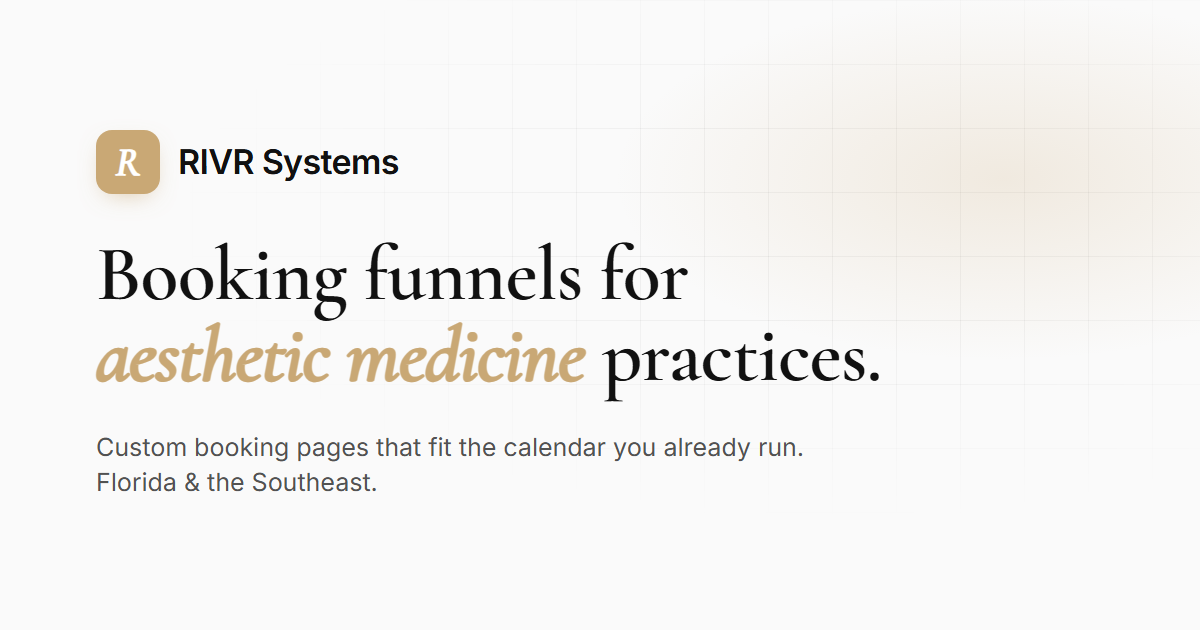
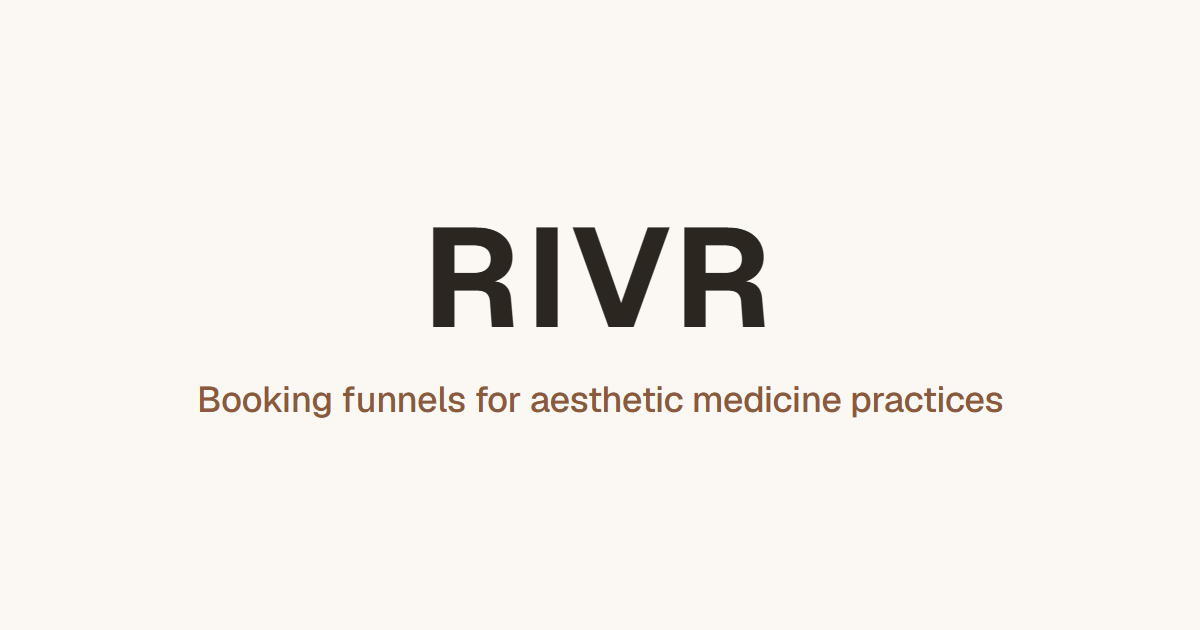
feat: Open Graph + Twitter Card meta tags + OG image asset
OG + Twitter Card meta tag sets already existed on all 4 HTML files
(index, about, book, the-build). This commit refreshes the
descriptions that drifted out of sync with Polish 3 messaging, and
regenerates imagery/og-image.png on the new off-white background with
Geist 700 wordmark (the previous version was rendered against the old
warm-cream bg + Cormorant wordmark from before Polish 3 / Task 5).

Description refreshes:
  index.html  (home og:description, twitter:description, meta
                description) — was the generic "Online booking systems
                that fit the calendar you already run...", now
                aligned with the new hero claim:
                "Most med spa booking pages lose 1 in 4 patients to
                 friction. We build a custom booking funnel that
                 replaces it, integrated with your existing calendar."
                (152 chars)

  the-build.html (og + twitter + meta description) — was a demo-
                showcase blurb, replaced with the methodology line
                Polish 4 / Task 5 added to the page:
                "How a build works: discovery, audit, two weeks of
                 build, integration with your calendar, handoff to
                 your domain. No platform migration." (138 chars)

  about.html  — already on-voice + concrete, unchanged.
  book.html   — already on-voice + concrete, unchanged.

OG image regenerated (imagery/og-image.png, 1200×630):
[…]

diff --git a/index.html b/index.html
@@ -4,7 +4,7 @@
   <meta charset="utf-8" />
   <meta name="viewport" content="width=device-width,initial-scale=1" />
   <title>RIVR — Booking systems for medical spas</title>
-  <meta name="description" content="Online booking systems that fit the calendar you already run. For medical spas in Jacksonville Beach and beyond." />
+  <meta name="description" content="Most med spa booking pages lose 1 in 4 patients to friction. We build a custom booking funnel that replaces it, integrated with your existing calendar." />
 
   <!-- TODO(thor): confirm canonical production domain is https://rivrsystems.com (vs www / vercel). See BLOCKED_ON_THOR.md. -->
   <link rel="canonical" href="https://rivrsystems.com/" />
@@ -13,14 +13,14 @@
   <meta property="og:type" content="website" />
   <meta property="og:site_name" content="RIVR Systems" />
   <meta property="og:title" content="RIVR — Booking systems for medical spas" />
-  <meta property="og:description" content="Online booking systems that fit the calendar you already run. For medical spas in Jacksonville Beach and beyond." />
+  <meta property="og:description" content="Most med spa booking pages lose 1 in 4 patients to friction. We build a custom booking funnel that replaces it, integrated with your existing calendar." />
   <meta property="og:url" content="https://rivrsystems.com/" />
   <meta property="og:image" content="https://rivrsystems.com/imagery/og-image.png" />
   <meta property="og:image:width" content="1200" />
   <meta property="og:image:height" content="630" />
   <meta name="twitter:card" content="summary_large_image" />
   <meta name="twitter:title" content="RIVR — Booking systems for medical spas" />
-  <meta name="twitter:description" content="Online booking systems that fit the calendar you already run. For medical spas in Jacksonville Beach and beyond." />
+  <meta name="twitter:description" content="Most med spa booking pages lose 1 in 4 patients to friction. We build a custom booking funnel that replaces it, integrated with your existing calendar." />
   <meta name="twitter:image" content="https://rivrsystems.com/imagery/og-image.png" />
 
   <!-- TODO(thor): confirm the final business address + add "telephone" once the Google Voice number exists. See BLOCKED_ON_THOR.md. -->

diff --git a/the-build.html b/the-build.html
@@ -4,7 +4,7 @@
   <meta charset="utf-8" />
   <meta name="viewport" content="width=device-width,initial-scale=1" />
   <title>RIVR — The Build</title>
-  <meta name="description" content="Three rebuilt RIVR demos — Devereaux, Lumera, Sela — each a different booking pattern for a different kind of practice." />
+  <meta name="description" content="How a build works: discovery, audit, two weeks of build, integration with your calendar, handoff to your domain. No platform migration." />
 
   <link rel="canonical" href="https://rivrsystems.com/the-build.html" />
   <link rel="icon" type="image/png" sizes="32x32" href="imagery/favicon-32.png" />
@@ -12,14 +12,14 @@
   <meta property="og:type" content="website" />
   <meta property="og:site_name" content="RIVR Systems" />
   <meta property="og:title" content="RIVR — The Build" />
-  <meta property="og:description" content="Three rebuilt RIVR demos — Devereaux, Lumera, Sela — each a different booking pattern for a different kind of practice." />
+  <meta property="og:description" content="How a build works: discovery, audit, two weeks of build, integration with your calendar, handoff to your domain. No platform migration." />
   <meta property="og:url" content="https://rivrsystems.com/the-build.html" />
   <meta property="og:image" content="https://rivrsystems.com/imagery/og-image.png" />
   <meta property="og:image:width" content="1200" />
   <meta property="og:image:height" content="630" />
   <meta name="twitter:card" content="summary_large_image" />
   <meta name="twitter:title" content="RIVR — The Build" />
-  <meta name="twitter:description" content="Three rebuilt RIVR demos — Devereaux, Lumera, Sela — each a different booking pattern for a different kind of practice." />
+  <meta name="twitter:description" content="How a build works: discovery, audit, two weeks of build, integration with your calendar, handoff to your domain. No platform migration." />
   <meta name="twitter:image" content="https://rivrsystems.com/imagery/og-image.png" />
 
   <link rel="preconnect" href="https://fonts.googleapis.com">
